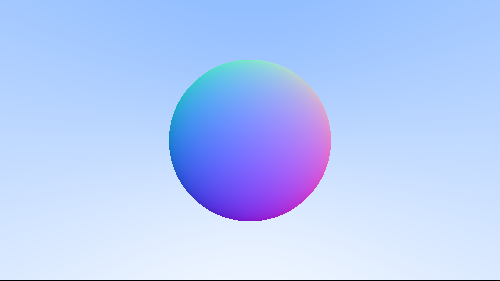
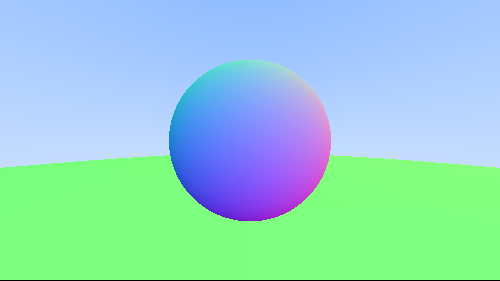
add hittable_list, rtweekend globals; render/raytrace a world/hittable_list of hittable obj's (2 sphere's--one centered at 0, 0, -1 r=0.5, another centered at (0, -100.5, -1) r=100)

diff --git a/CSE168/hw1/RayTracer/src/Main.cpp b/CSE168/hw1/RayTracer/src/Main.cpp
@@ -1,8 +1,10 @@
 #include <iostream>
 #include "FreeImage.h"
+// common utils and constants
+#include "rtweekend.h"
 #include "color.h"
-#include "vec3.h"
-#include "ray.h"
+#include "sphere.h"
+#include "hittable_list.h"
 
 double hit_sphere(const point3& center, double radius, const ray& r)
 {
@@ -30,17 +32,16 @@ double hit_sphere(const point3& center, double radius, const ray& r)
 	}
 }
 
-color ray_color(const ray& r) {
-	// get the hit points on the sphere, color their normals
-	auto t = hit_sphere(point3(0, 0, -1), 0.5, r);
-	if (t > 0.0) {
-		vec3 N = unit_vector(r.at(t) - vec3(0, 0, -1));
-		return 0.5 * color(N.x() + 1, N.y() + 1, N.z() + 1);
+color ray_color(const ray& r, const hittable& world) {
+	hit_record rec;
+
+	if (world.hit(r, 0, infinity, rec)) {
+		return 0.5 * (rec.normal + color(1, 1, 1));
 	}
 
 	// else return the gradient background sky
 	vec3 unit_direction = unit_vector(r.direction());
-	t = 0.5 * (unit_direction.y() + 1.0);
+	auto t = 0.5 * (unit_direction.y() + 1.0);
 	return (1.0 - t) * color(1.0, 1.0, 1.0) + t * color(0.5, 0.7, 1.0);
 }
 
@@ -56,16 +57,26 @@ void PrintProgress(int i, int j, int imageWidth, int imageHeight, int progressAr
 
 void Rasterize(double aspectRatio, int imageWidth, int bitsPerPixel) {
 
+	// Image
+
 	const int imageHeight = static_cast<int>(imageWidth / aspectRatio);
 
 	// FreeImage setup
+
 	FreeImage_Initialise();
 	FIBITMAP* bitmap = FreeImage_Allocate(imageWidth, imageHeight, bitsPerPixel);
 	RGBQUAD *freeimage_color = new RGBQUAD();
 	if (!bitmap)
 		exit(1);
 
+	// World
+
+	hittable_list world;
+	world.add(make_shared<sphere>(point3(0, 0, -1), 0.5));
+	world.add(make_shared<sphere>(point3(0, -100.5, -1), 100));
+
 	// Camera
+
 	// the viewport AKA near clipping plane
 	auto viewportHeight = 2.0;
 	auto viewportWidth = aspectRatio * viewportHeight;
@@ -77,11 +88,13 @@ void Rasterize(double aspectRatio, int imageWidth, int bitsPerPixel) {
 	// we subtract the focalLength bc we are looking into the -z axis, to respect the RH-coordinate system
 	auto lowerLeftCorner = origin - horizontal / 2 - vertical / 2 - vec3(0, 0, focalLength);
 
+	// Progress tracker setup
+
 	// for progress tracking
 	std::cout << "imageWidth: " << imageWidth << " imageHeight: " << imageHeight << "\n" << std::endl;
 	int printProgress[100] = {};
 
-	//Draws a gradient from blue to green
+	// Render loop
 	for (int i = 0; i < imageWidth; i++) {
 		for (int j = imageHeight-1; j > 0; j--) {
 
@@ -92,7 +105,7 @@ void Rasterize(double aspectRatio, int imageWidth, int bitsPerPixel) {
 			auto u = double(i) / (imageWidth-1);
 			auto v = double(j) / (imageHeight-1);
 			ray r(origin, lowerLeftCorner + u * horizontal + v * vertical - origin);
-			color pixel_color = ray_color(r);
+			color pixel_color = ray_color(r, world);
 
 			// converts our color object to RGBQUAD for FreeImage
 			write_color(std::cout, pixel_color, freeimage_color);

diff --git a/CSE168/hw1/RayTracer/src/hittable_list.h b/CSE168/hw1/RayTracer/src/hittable_list.h
@@ -1,0 +1,43 @@
+#ifndef HITTABLE_LIST_H
+#define HITTABLE_LIST_H
+
+#include "hittable.h"
+
+#include <memory>
+#include <vector>
+
+using std::shared_ptr;
+using std::make_shared;
+
+class hittable_list : public hittable {
+public:
+    hittable_list() {}
+    hittable_list(shared_ptr<hittable> object) { add(object); }
+
+    void clear() { objects.clear(); }
+    void add(shared_ptr<hittable> object) { objects.push_back(object); }
+
+    virtual bool hit(
+        const ray& r, double t_min, double t_max, hit_record& rec) const override;
+
+public:
+    std::vector<shared_ptr<hittable>> objects;
+};
+
+bool hittable_list::hit(const ray& r, double t_min, double t_max, hit_record& rec) const {
+    hit_record temp_rec;
+    bool hit_anything = false;
+    auto closest_so_far = t_max;
+
+    for (const auto& object : objects) {
+        if (object->hit(r, t_min, closest_so_far, temp_rec)) {
+            hit_anything = true;
+            closest_so_far = temp_rec.t;
+            rec = temp_rec;
+        }
+    }
+
+    return hit_anything;
+}
+
+#endif

diff --git a/CSE168/hw1/RayTracer/src/rtweekend.h b/CSE168/hw1/RayTracer/src/rtweekend.h
@@ -1,0 +1,31 @@
+#ifndef RTWEEKEND_H
+#define RTWEEKEND_H
+
+#include <cmath>
+#include <limits>
+#include <memory>
+
+
+// Usings
+
+using std::shared_ptr;
+using std::make_shared;
+using std::sqrt;
+
+// Constants
+
+const double infinity = std::numeric_limits<double>::infinity();
+const double pi = 3.1415926535897932385;
+
+// Utility Functions
+
+inline double degrees_to_radians(double degrees) {
+    return degrees * pi / 180.0;
+}
+
+// Common Headers
+
+#include "ray.h"
+#include "vec3.h"
+
+#endif
